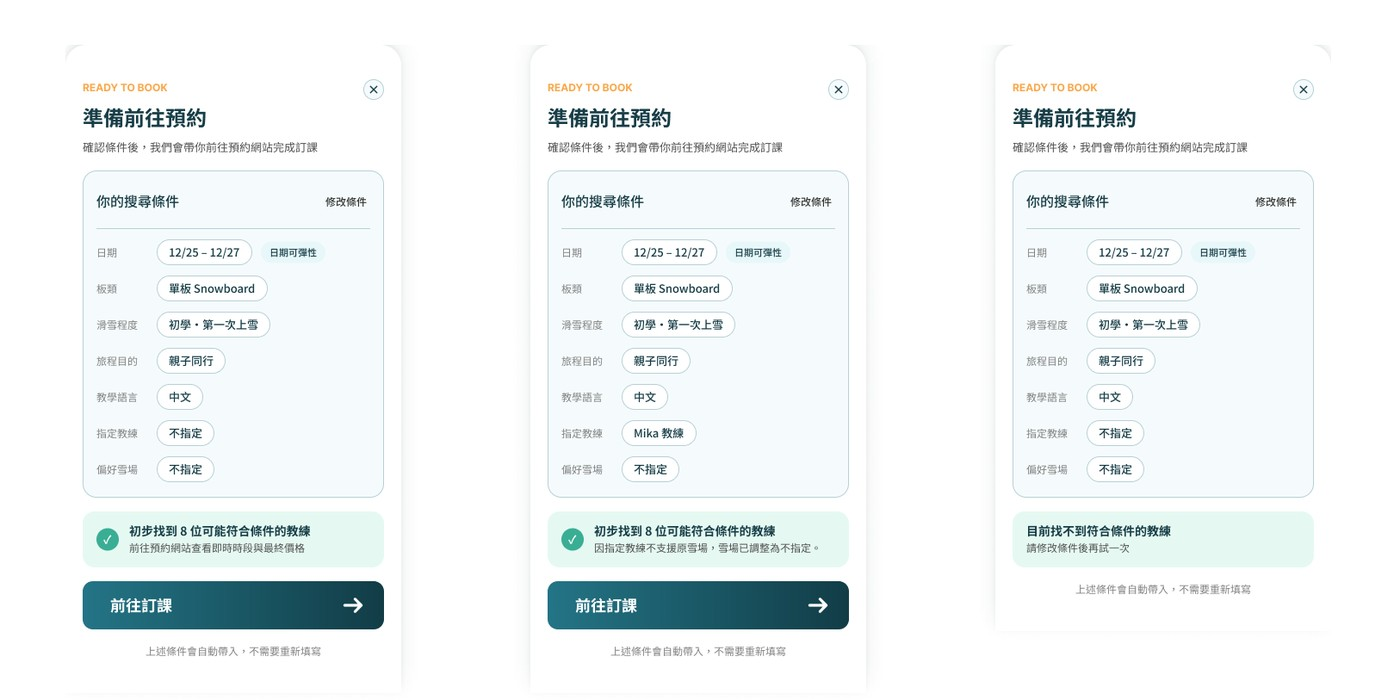
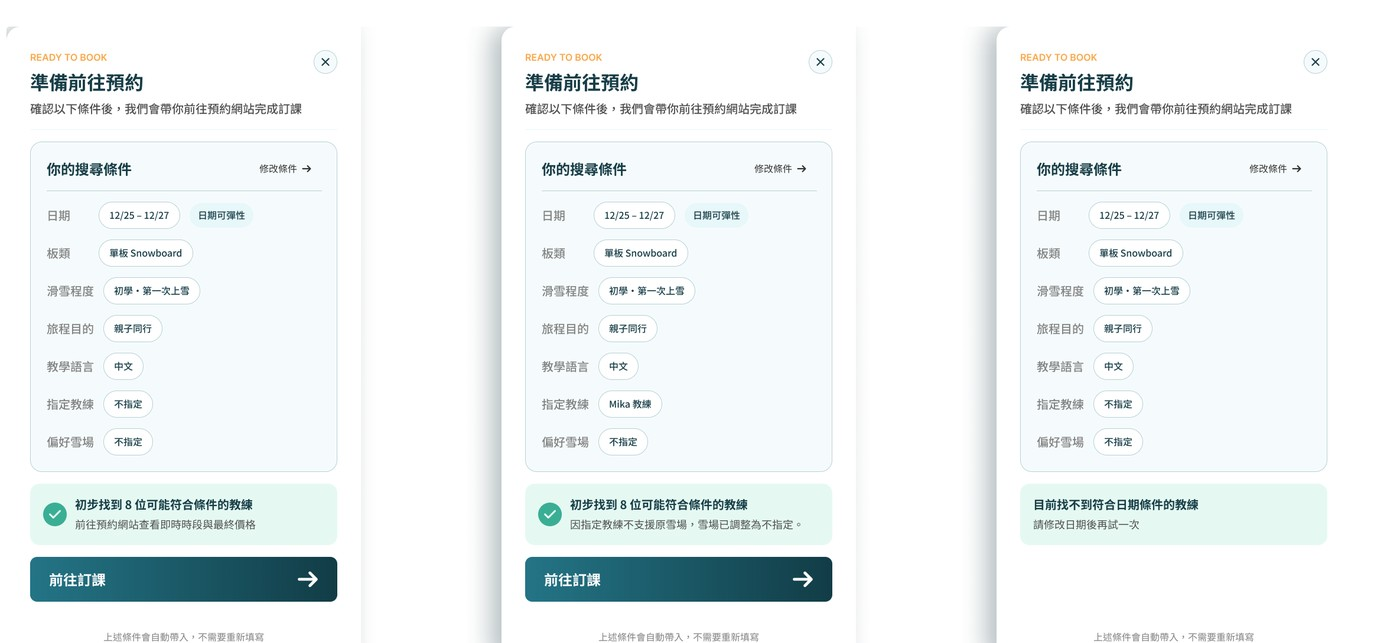
訂課交接改用桌機版元件：無結果狀態指名日期條件

diff --git a/src/data/content.js b/src/data/content.js
@@ -804,11 +804,11 @@ export const sections = [
         caption: '核心體驗不只包含順利情境，也包含修改與無結果',
         src: '/img/handoff.jpg',
         width: 1400,
-        height: 700,
-        alt: '訂課交接三種狀態：條件齊全可前往訂課、條件衝突自動調整後仍可前往、完全無結果需修改條件',
+        height: 643,
+        alt: '訂課交接三種狀態：條件齊全可前往訂課、條件衝突自動調整後仍可前往、找不到符合日期條件時指名該改哪一項',
         tone: 'dark',
         footnote:
-          '01 條件齊全｜02 條件衝突自動調整｜03 無結果。中間那張是關鍵：指定了 Mika 教練但他不支援原本選的雪場，系統把雪場改為「不指定」並直接說明原因，使用者仍然可以往下走——不是擋住，而是告訴他發生了什麼、以及為什麼還能繼續。',
+          '01 條件齊全｜02 條件衝突自動調整｜03 無結果。02 指定了 Mika 教練但他不支援原本選的雪場，系統把雪場改為「不指定」並說明原因，使用者仍可往下走；03 找不到結果時直接指名是「日期」卡住，而不是丟一句「請修改條件」讓人逐項猜。',
       },
       {
         type: 'wireframes',
